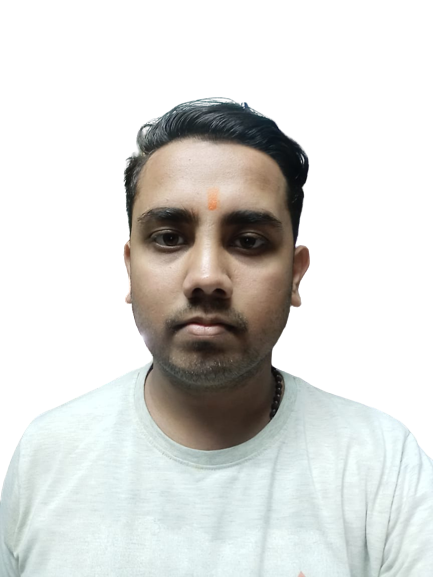
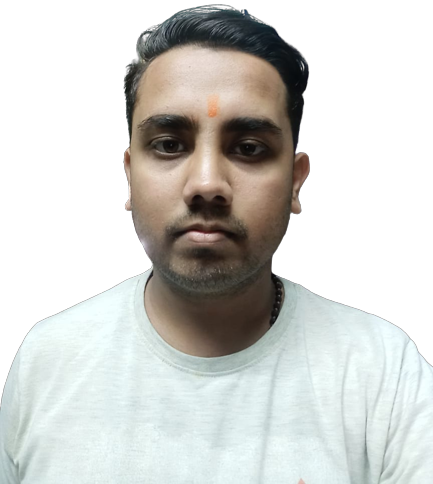
updats

diff --git a/src/components/about/about.css b/src/components/about/about.css
@@ -5,15 +5,10 @@
 }
 
 .about__me{
-    width: 100%;
-    aspect-ratio: 1/1;
+    width: 80%;
+    aspect-ratio: 1/1.;
     border-radius: 2rem;
-    background-color: linear-gradient(
-        45deg,
-        transparent,
-        var(--color-primary),
-        transparent
-    );
+    background-color:var(--color-primary);
     display: grid;
     place-items: center;
 }
@@ -35,7 +30,7 @@
     gap: 1.5rem;
 }
 
-.about__cards{
+.about__cards{ /*here the name of class in card but due to change some style i have put it in cards which is a about class name as same*/
     background: var(--color-bg-variant);
     border: 1px solid transparent;
     border-radius: 1rem;
@@ -73,24 +68,28 @@
 /*==========MEDIA QURIES==========*/
 @media screen and (max-width:1024px) {
     .about__container{
-        grid-template-columns: 1fr;
+        grid-template-columns: 4fr;
         gap: 0;
     }
 
     .about__me{
-        width: 50%;
-        margin: 2rem auto 4 rem;
+        width: 40%;
+        left: calc(50% - 11rem);
+        
+        margin-bottom: 3rem;
     }
 
-    .about__container p{
+    .about__content p{
         margin: 1rem 0.15rem;
+        text-align: center;
     }
-}
+
+} /* need to change the perfect setting for the given screen ratio*/
 
 @media screen and (max-width:600px) {
     .about__me{
         width: 65%;
-        margin: 2rem auto 4 rem;
+        margin: 0 auto 3 rem;
     }
 
     .about__cards{
@@ -105,4 +104,5 @@
     .about__content p{
         margin: 1.5rem 0;
     }
+    
 }

diff --git a/src/components/about/About.jsx b/src/components/about/About.jsx
@@ -14,11 +14,11 @@ const About = () => {
       <div className='container about__container'>
         <div className='about__me'>
           <div className='about__me-image'>
-            <img src={ME} alt="About Image" />
+            <img src = {ME} alt = "About Image" />
           </div>
         </div>
       
-        <div className='about__container'>
+        <div className='about__content'>
           <div className='about__cards'>
             <article className='about__card'>
               <FaAward className='about__icon'/>
@@ -40,7 +40,7 @@ const About = () => {
           </div>
 
           <p>
-            About me paragraph 
+            About me paragraph.About me paragraph.About me paragraph.About me paragraph.About me paragraph.About me paragraph.About me paragraph.About me paragraph.About me paragraph.About me paragraph.About me paragraph.About me paragraph.About me paragraph.About me paragraph.About me paragraph.About me paragraph.About me paragraph.About me paragraph.About me paragraph.About me paragraph.About me paragraph.About me paragraph.
           </p>
 
           <a href='#contact' className='btn btn-primary'>Let's Talk</a>

diff --git a/src/components/experience/Experience.jsx b/src/components/experience/Experience.jsx
@@ -1,9 +1,19 @@
 import React from 'react';
 import './experience.css';
+import {BsPathCheckFill} from 'react-icons/bs'
 
 function Experience() {
   return (
-    <section id='experience'>Experience</section>
+    <section id='experience'>
+      <h5>What Skills I Have</h5>
+      <h2>My Experience</h2>
+
+      <div className='container experience__container'>
+        <div className="experience__frontend">
+          <h3>Frontend Development</h3>
+        </div>
+      </div>
+    </section>
     
   )
 }

diff --git a/src/components/header/Header.jsx b/src/components/header/Header.jsx
@@ -1,7 +1,7 @@
 import React from 'react';
 import './header.css';
 import CTA from './CTA';
-import Me from '../../assets/WhatsApp_Image_2023-03-27_at_8.50.46_AM-removebg-preview.png';
+import Me from '../../assets/IMG20230319172433.jpg';
 import HeaderSocials from './HeaderSocials';
 
 function Header() {
